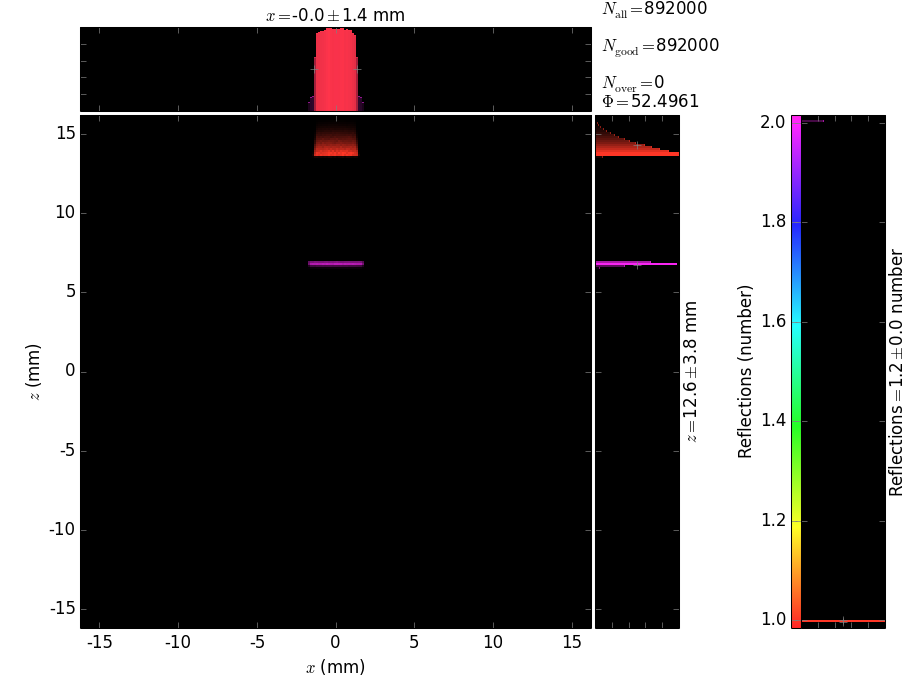
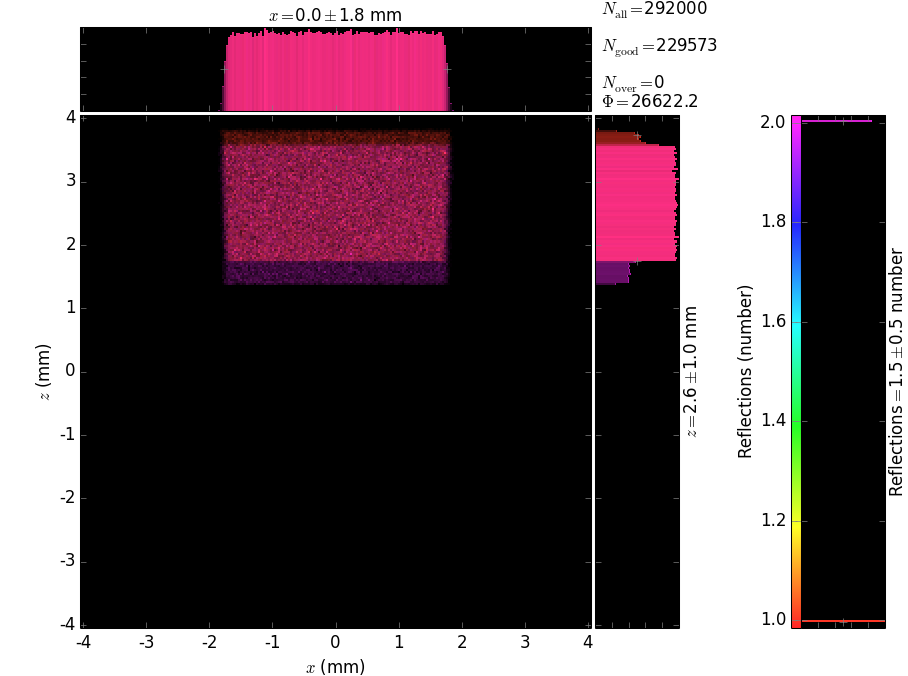
wtf

diff --git a/object_testing.py b/object_testing.py
@@ -22,12 +22,12 @@ from customobjects import CustomShape
 
 """ WELL DOCUMENTED PARAMETERS """
 repeats = 1e4   # liczba
-E0      = 29000  # [eV]
+E0      = 9000  # [eV]
 D_      = 40    # [mm] | constant screen position
 
 xLimits = [-4.05, 4.05] # Plot limits
 zLimits = [4*x for x in xLimits]
-#zLimits = xLimits       # axis square
+zLimits = xLimits       # axis square
 
 processes = 4
 
@@ -63,7 +63,7 @@ def build_beamline(nrays=1000):
     beamLine.things = []
 
     # Set position and thickness
-    limPhysY = [29.95, 39.95]
+    limPhysY = [34.95, 39.95]
     limPhysX = [-3.0, 3.0]
 
     # Tested material

diff --git a/customobjects.py b/customobjects.py
@@ -13,14 +13,14 @@ class CustomShape(roe.OE):
         # x
         a = 0.0
         # y
-        b = 1
+        b = 2.1
         # z
         c = 1.0
         norm = (a**2 + c**2)**0.5
         return [a/norm, b/norm, c/norm]
 
     def local_z(self, x, y):
-        return -2. + 1.0*(y - self.limPhysY[0])
+        return -1. + 2.1*(y - self.limPhysY[0])
 
 if __name__ == '__main__':
     verts = [
